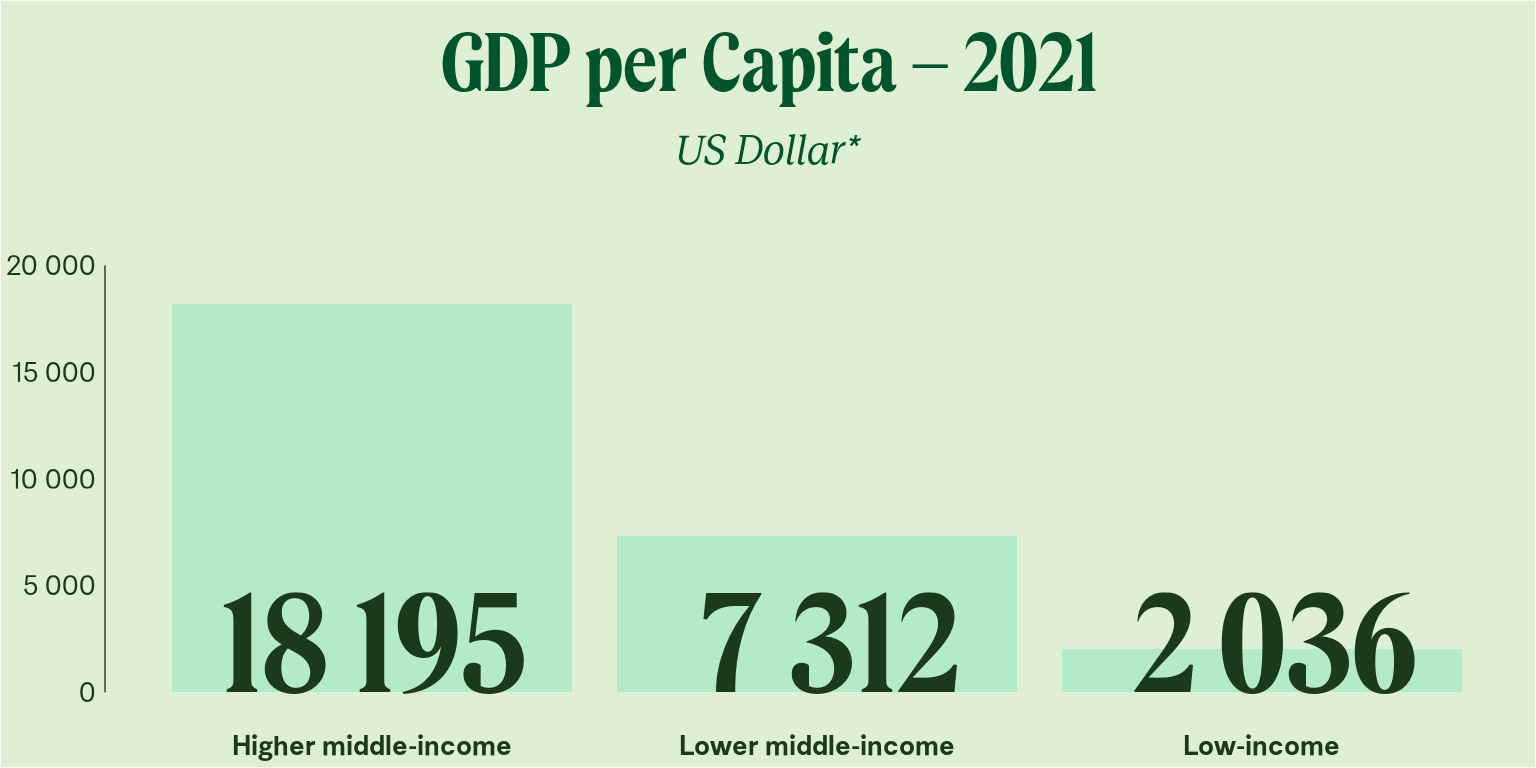
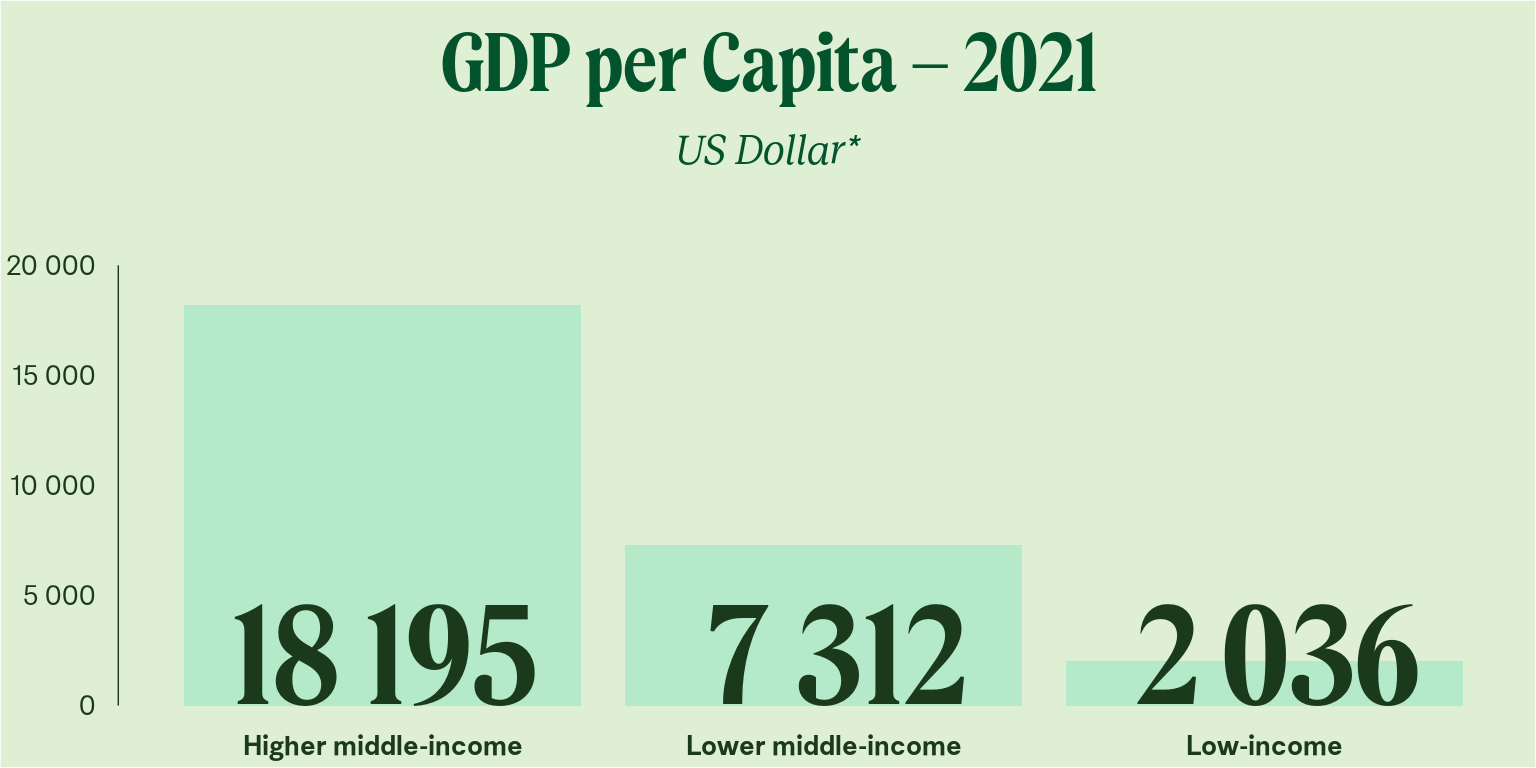
Tidy code a bit

diff --git a/README.md b/README.md
@@ -16,7 +16,6 @@ Norads colour palette and plot style for creating ggplot2 graphics.
 ### Default theme, suitable for reports
 
 ``` r
-
 library(ggplot2)
 library(noradplot)
 
@@ -35,7 +34,6 @@ ggplot(mpg, aes(displ, hwy, color = class)) +
 ### Colorful theme, suitable for presentations
 
 ``` r
-
 ggnorad(style = "biglight1")
 
 gdppc <- data.frame(gdppc = c(18195, 7312, 2036),
@@ -48,13 +46,13 @@ ggplot(gdppc, aes(reorder(incomegroup, -gdppc), gdppc)) +
             size = 36, family = "Norad Display", color = norad_cols("darkgreen")) +
   labs(title = "GDP per Capita – 2021", x = NULL, y = NULL,
        subtitle = "US Dollar*") +
-  coord_cartesian(clip = "off")
+  coord_cartesian(clip = "off") +
+  theme(axis.line.x = element_blank(), axis.text.x = element_text(face = "bold"))
 ```
 
 ![](man/figures/README-example2-1.png)<!-- -->
 
 ``` r
-
 ggnorad(style = "biglight2")
 
 ggplot(gdppc, aes(reorder(incomegroup, -gdppc), gdppc)) + 
@@ -64,13 +62,13 @@ ggplot(gdppc, aes(reorder(incomegroup, -gdppc), gdppc)) +
             size = 36, family = "Norad Display", color = norad_cols("brown")) +
   labs(title = "GDP per Capita – 2021", x = NULL, y = NULL,
        subtitle = "US Dollar*") +
-  coord_cartesian(clip = "off")
+  coord_cartesian(clip = "off") +
+  theme(axis.line.x = element_blank(), axis.text.x = element_text(face = "bold"))
 ```
 
 ![](man/figures/README-example3-1.png)<!-- -->
 
 ``` r
-
 ggnorad(style = "bigdark")
 #> Warning in ggnorad(style = "bigdark"): This style is high contrast. Use
 #> additional visual elements with care.
@@ -80,7 +78,8 @@ ggplot(gdppc, aes(reorder(incomegroup, -gdppc), gdppc)) +
   scale_y_continuous(expand = expansion(c(0, 0.1)), labels = scales::label_comma(big.mark = " ")) +
   labs(title = "GDP per Capita – 2021", x = NULL, y = NULL,
        subtitle = "US Dollar*") +
-  coord_cartesian(clip = "off")
+  coord_cartesian(clip = "off") +
+  theme(axis.line.x = element_blank(), axis.text.x = element_text(face = "bold"))
 ```
 
 ![](man/figures/README-example4-1.png)<!-- -->
